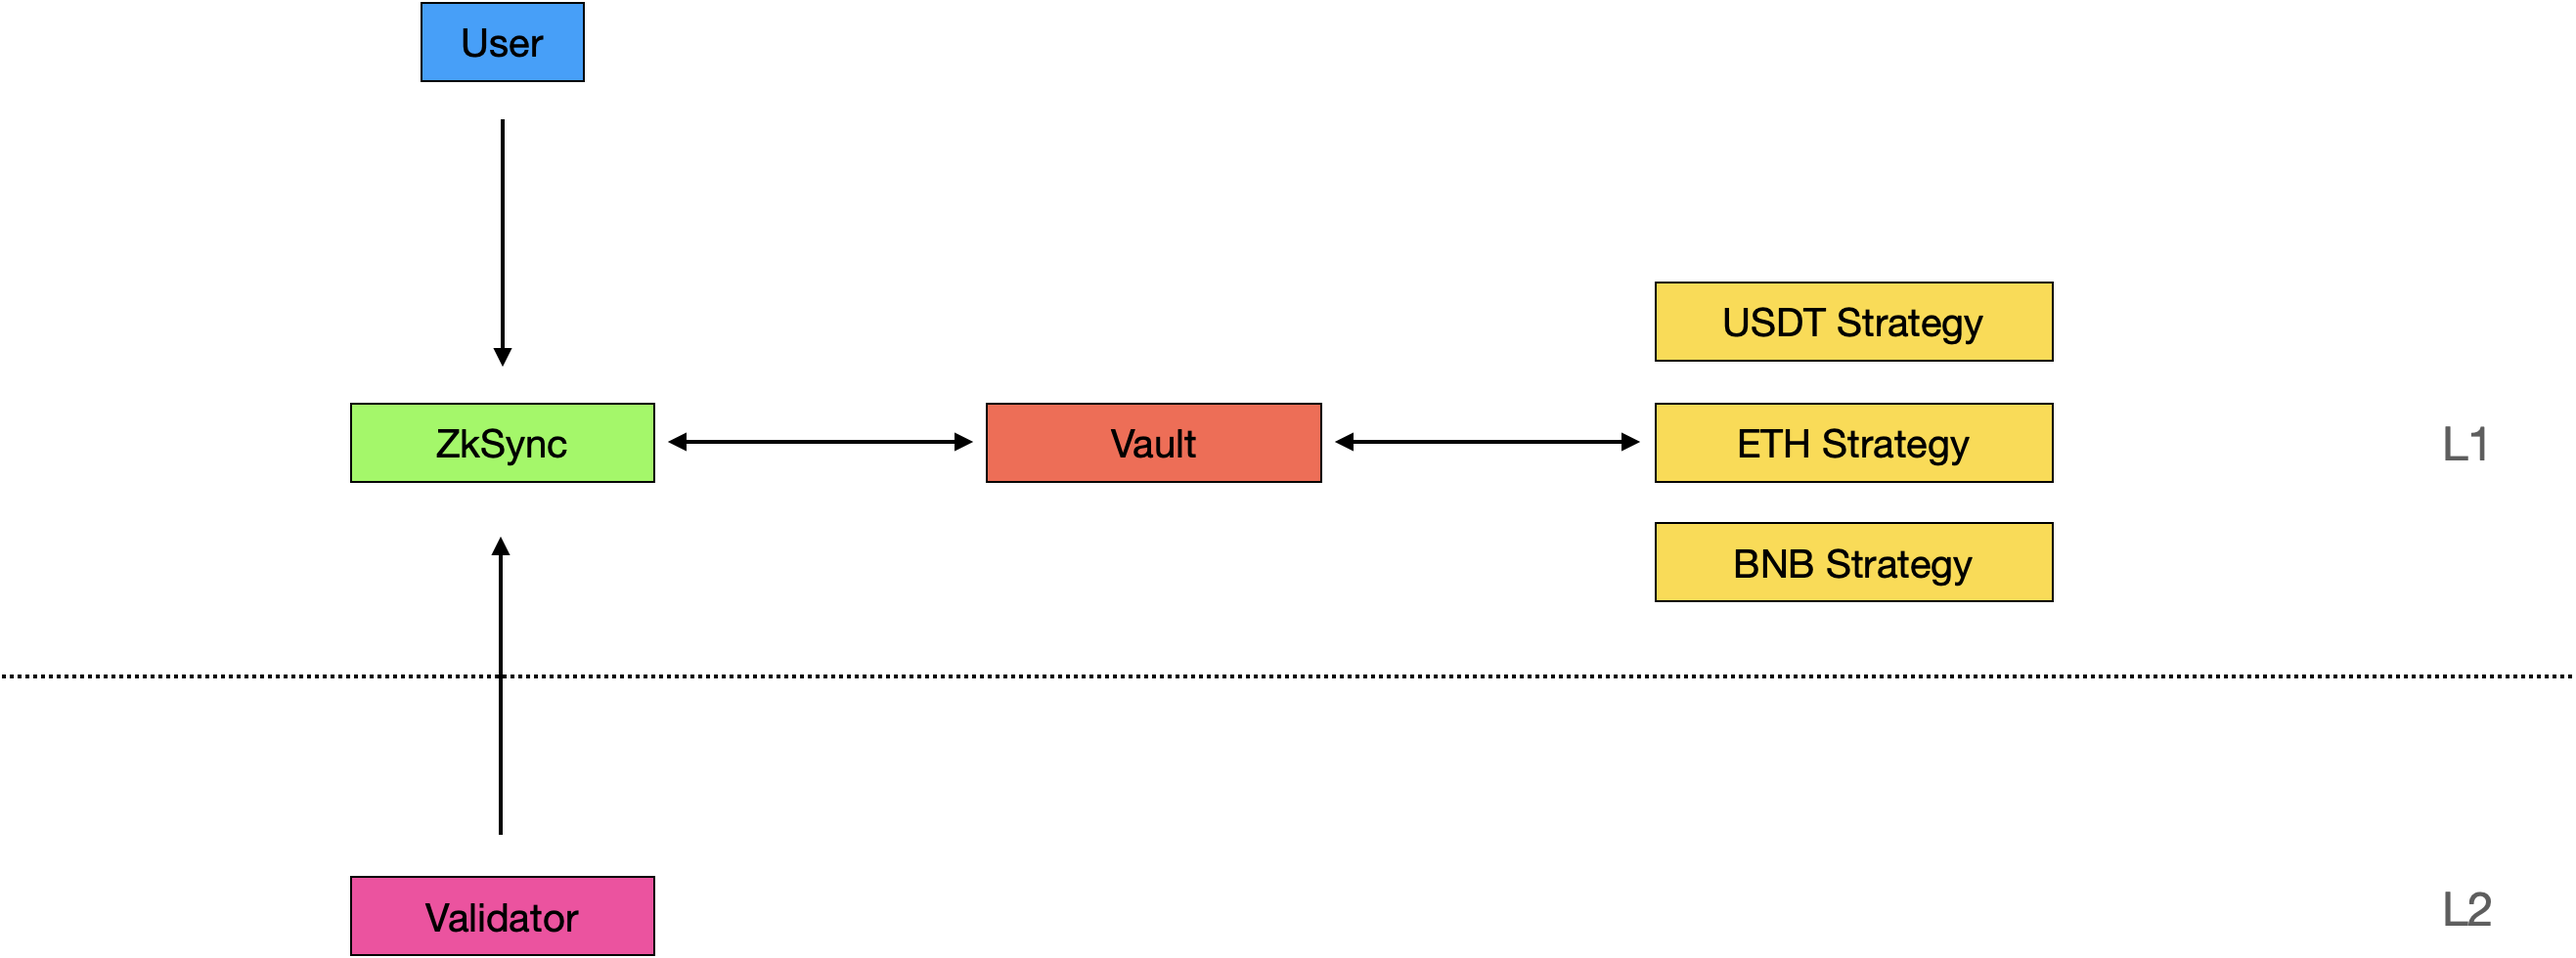
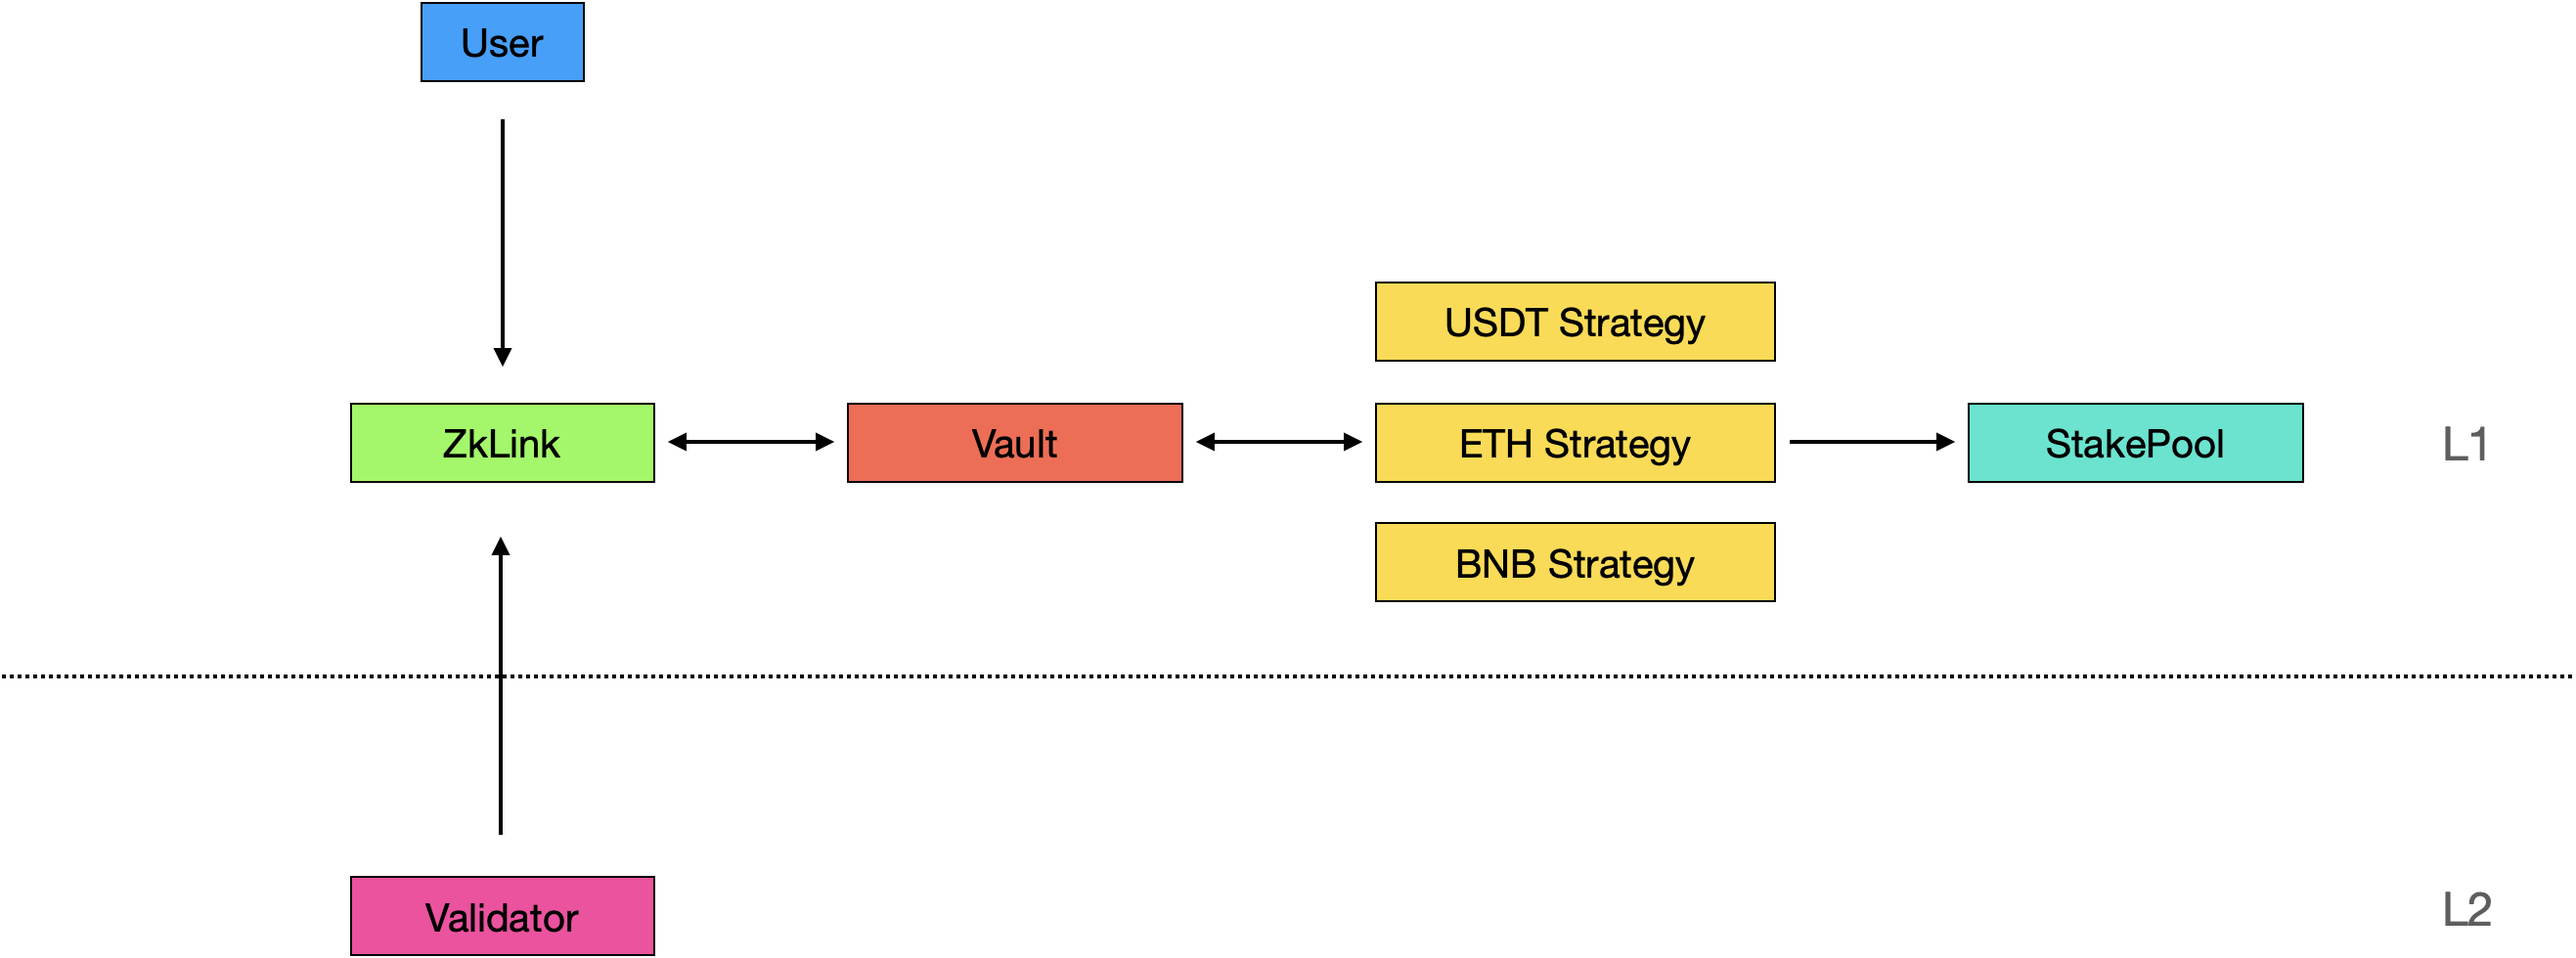
delete IZKL.sol

Changed region(s): [[0.4358, 0.2755, 0.9028, 0.6429], [0.3113, 0.398, 0.4047, 0.5204], [0.1557, 0.4286, 0.2179, 0.4898]]

diff --git a/docs/ZkLink contract architecture.md b/docs/ZkLink contract architecture.md
@@ -2,34 +2,64 @@
 
 This document covers the structure of ZkLink Contracts.
 
-## Core Modules
+## Core
 
 ZkLink consists of two core modules：
 
-* ZkSync：User deposit and withdraw in L1，blocks commit and verify from L2.
-* Earn：Use part of  funds in ZkSync to invest and get high returns.
+* ZkLink：User deposit and withdraw in L1，blocks commit and verify from L2.
+* Earn：Stake funds of ZkLink to get returns without security.
 
-![image-20210525193838814](./contracts-structure.png)
+![image-20211128200745367](./contracts-structure.png)
 
-### ZkSync
+### ZkLink
 
-* User deposit and withdraw
-* Create pair
+ZkLink module contains files in`contracts` and `contratcs/zksync`
+
+* Deposit and withdraw
+* Add liquidity, remove liquidity and swap
 * Block commit, verify and execute
 * Emergency exit
 
 ### Earn
 
-* Transfer part of funds to strategy
+Earn module contains files in `contracts/vault` and `contracts/strategy`
+
+* Transfer funds to strategy
 * Withdraw funds from strategy
-* Transfer profit to user reward address and protocol reward address
+* Manage strategies
 
 ### Fund FLows
 
-* Deposit: User -> ZkSync -> Vault
-* Invest: Vault -> Strategy
-* Withdraw: User <- ZkSync <- Vault <- Strategy
-* Settle reward: Vault -> reward address
+* Deposit: User -> ZkLink -> Vault -> Strategy
+* Withdraw: User <- ZkLink <- Vault <- Strategy
+* Harvest: Strategy -> Stake Pool
+
+## Stake
+
+Stake consists of three modules:
+
+* Stake pool: user stake or unstake nft produced by add liquidity
+* ZkLinkNft: manage the life cycle of nft
+* ZKL: token reward to liuqidity provider
+
+### StakePool
+
+StakePool module contains files in `contract/stake`
+
+* Manage pools
+* User stake and unstake nft
+* Allocate rewards to staker users
+
+### ZkLinkNft
+
+ZkLinkNft module contains files in `contracts/nft`
+
+* Mint new nft when user add liquidity to zklink
+* Change status when layer2 msg executed at layer1
+
+### ZKL
+
+ZKL module contains files in `contract/token`
 
 ## Permissions
 
@@ -69,4 +99,4 @@ Contrats contain business permission are：
 | **ZkSync**            | Create pair                      | governor             |
 |                       | Block commit, verify and execute | validator            |
 
-governorwill be a multiowner wallet or a timelock executor controlled by dao.
+governor will be a multiowner wallet or a timelock executor controlled by dao.

diff --git a/README.md b/README.md
@@ -44,17 +44,19 @@ We add a custom deploy task to hardhat environment
 ```shell
 $ npx hardhat help deploy
 
-Hardhat version 2.3.0
+Hardhat version 2.6.1
 
-Usage: hardhat [GLOBAL OPTIONS] deploy --fee-account <STRING> --genesis-root <STRING> --governor <STRING> --key <STRING> --validator <STRING>
+Usage: hardhat [GLOBAL OPTIONS] deploy --fee-account <STRING> --force <BOOLEAN> --genesis-root <STRING> --governor <STRING> --key <STRING> --skip-verify <BOOLEAN> --validator <STRING>
 
 OPTIONS:
 
-  --fee-account 	The feeAccount address
+  --fee-account 	The feeAccount address, default is same as deployer
+  --force       	Fore redeploy all contracts, default is false
   --genesis-root	The genesis root hash
-  --governor    	The governor address
+  --governor    	The governor address, default is same as deployer
   --key         	The deployer key
-  --validator   	The validator address
+  --skip-verify 	Skip verify, default is false
+  --validator   	The validator address, default is same as deployer
 
 deploy: Deploy zklink
 
